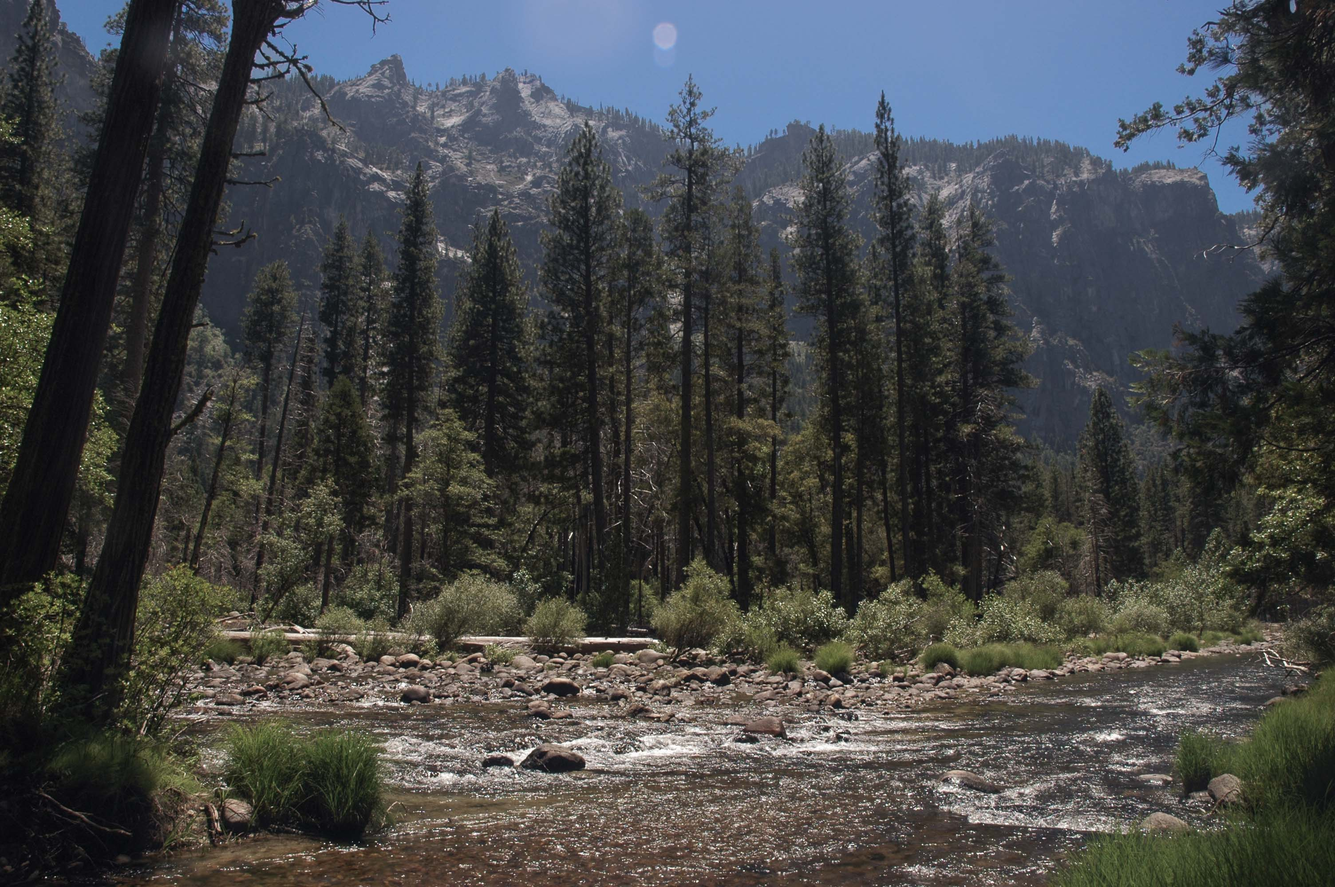
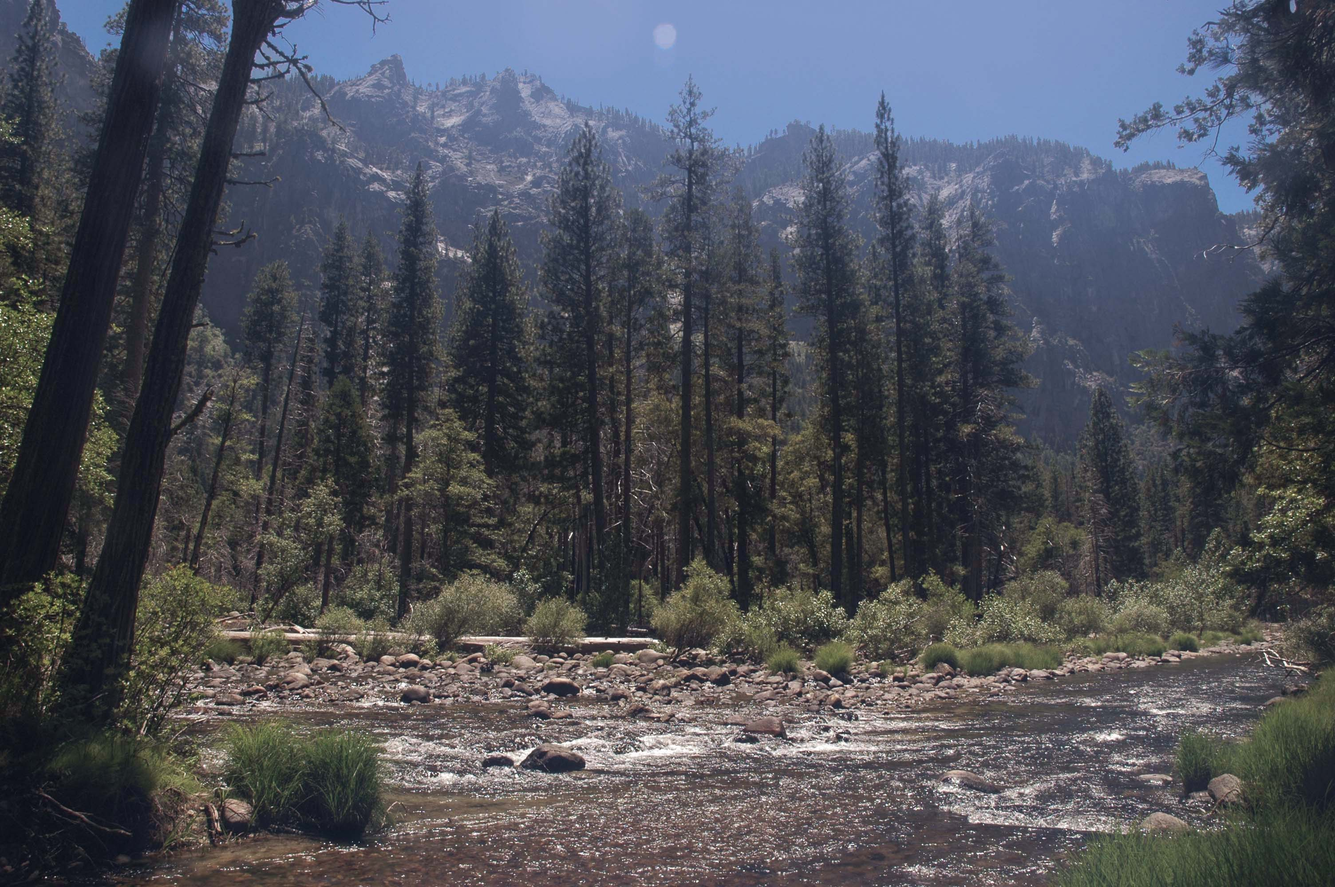
FSD

diff --git a/vispro.html b/vispro.html
@@ -202,7 +202,7 @@
 
 
         #kodak {
-            background: url("/vispro/kodak.png");
+            background: url("/vispro/kodak.jpg");
             background-repeat: no-repeat;
             background-position: center top;
             background-size: 788px auto;
@@ -214,7 +214,7 @@
         #kodak h2:hover + h3 { color: #628cb7;}
 
         #yosemite {
-            background: url("/vispro/yosemite.png");
+            background: url("/vispro/yosemite.jpg");
             background-repeat: no-repeat;
             background-position: center top;
             background-size: 788px auto;
@@ -226,7 +226,7 @@
         #yosemite h2:hover + h3 { color: #628cb7;}
 
         #mosk {
-            background: url("/vispro/mosk.png");
+            background: url("/vispro/mosk.jpg");
             background-repeat: no-repeat;
             background-position: center top;
             background-size: 788px auto;
@@ -238,7 +238,7 @@
         #mosk h2:hover + h3 { color: #628cb7;}
         
         #contract {
-            background: url("/vispro/contract.png");
+            background: url("/vispro/contract.jpg");
             background-repeat: no-repeat;
             background-position: center top;
             background-size: 788px auto;
